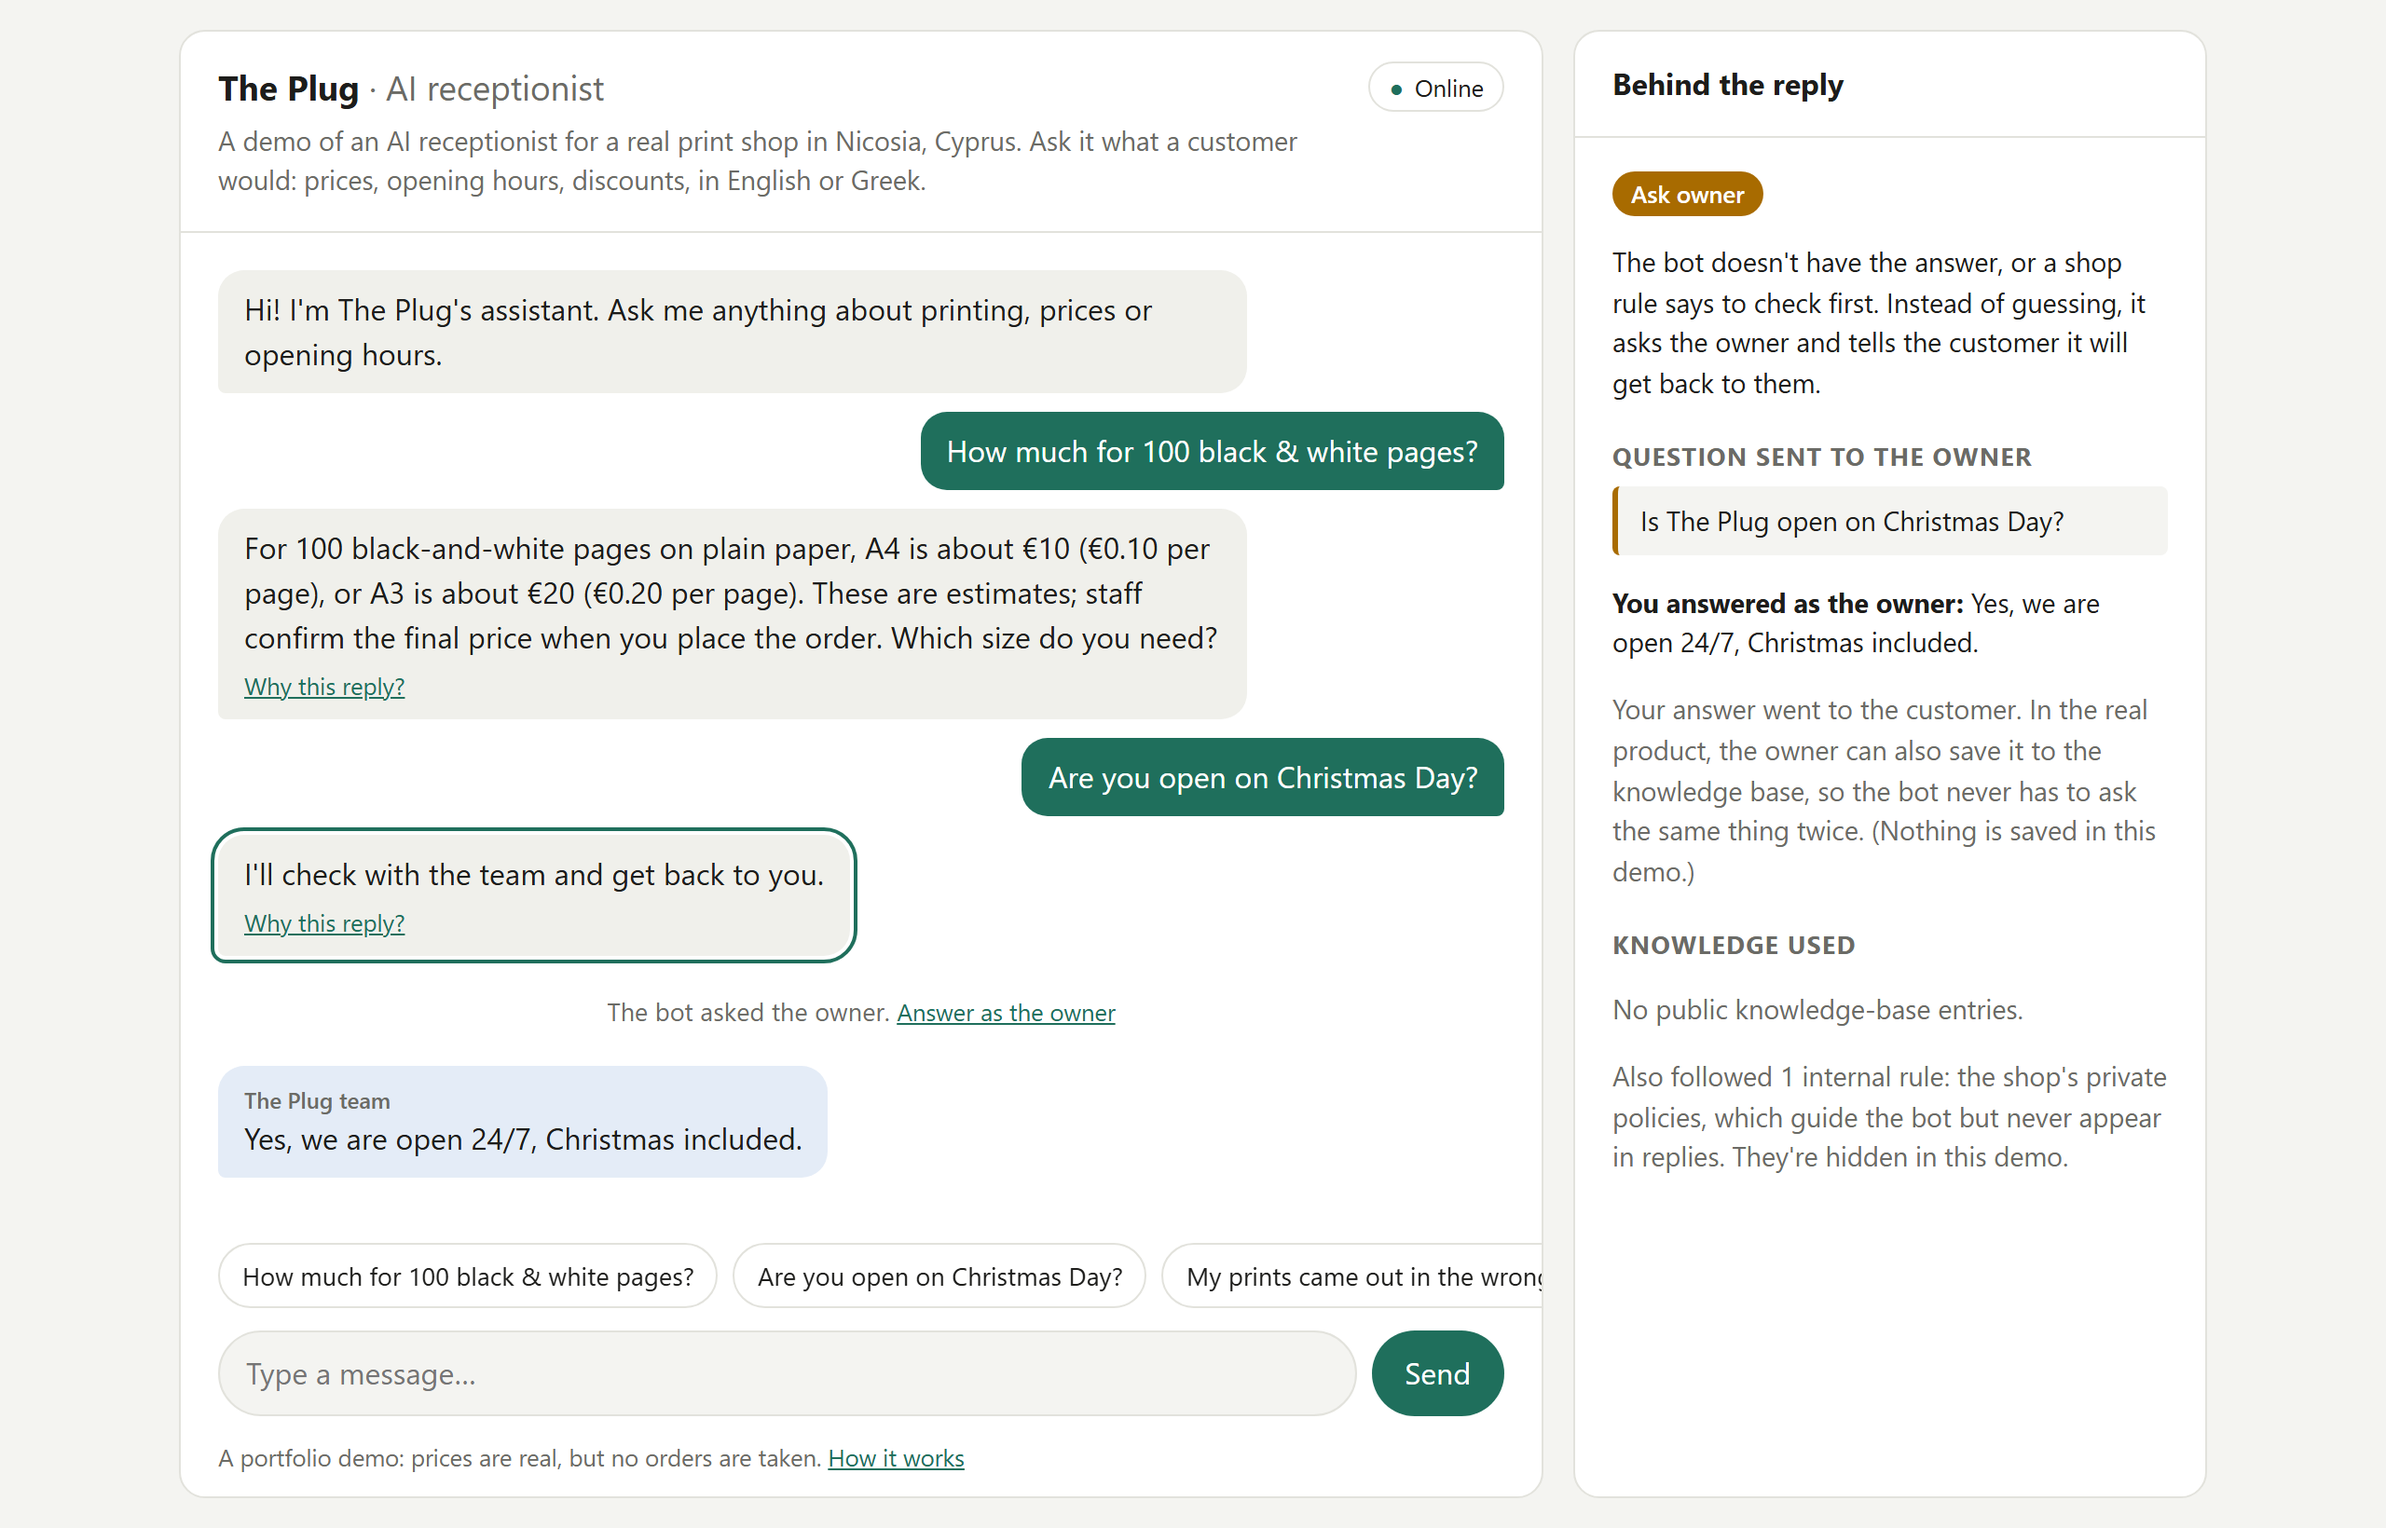
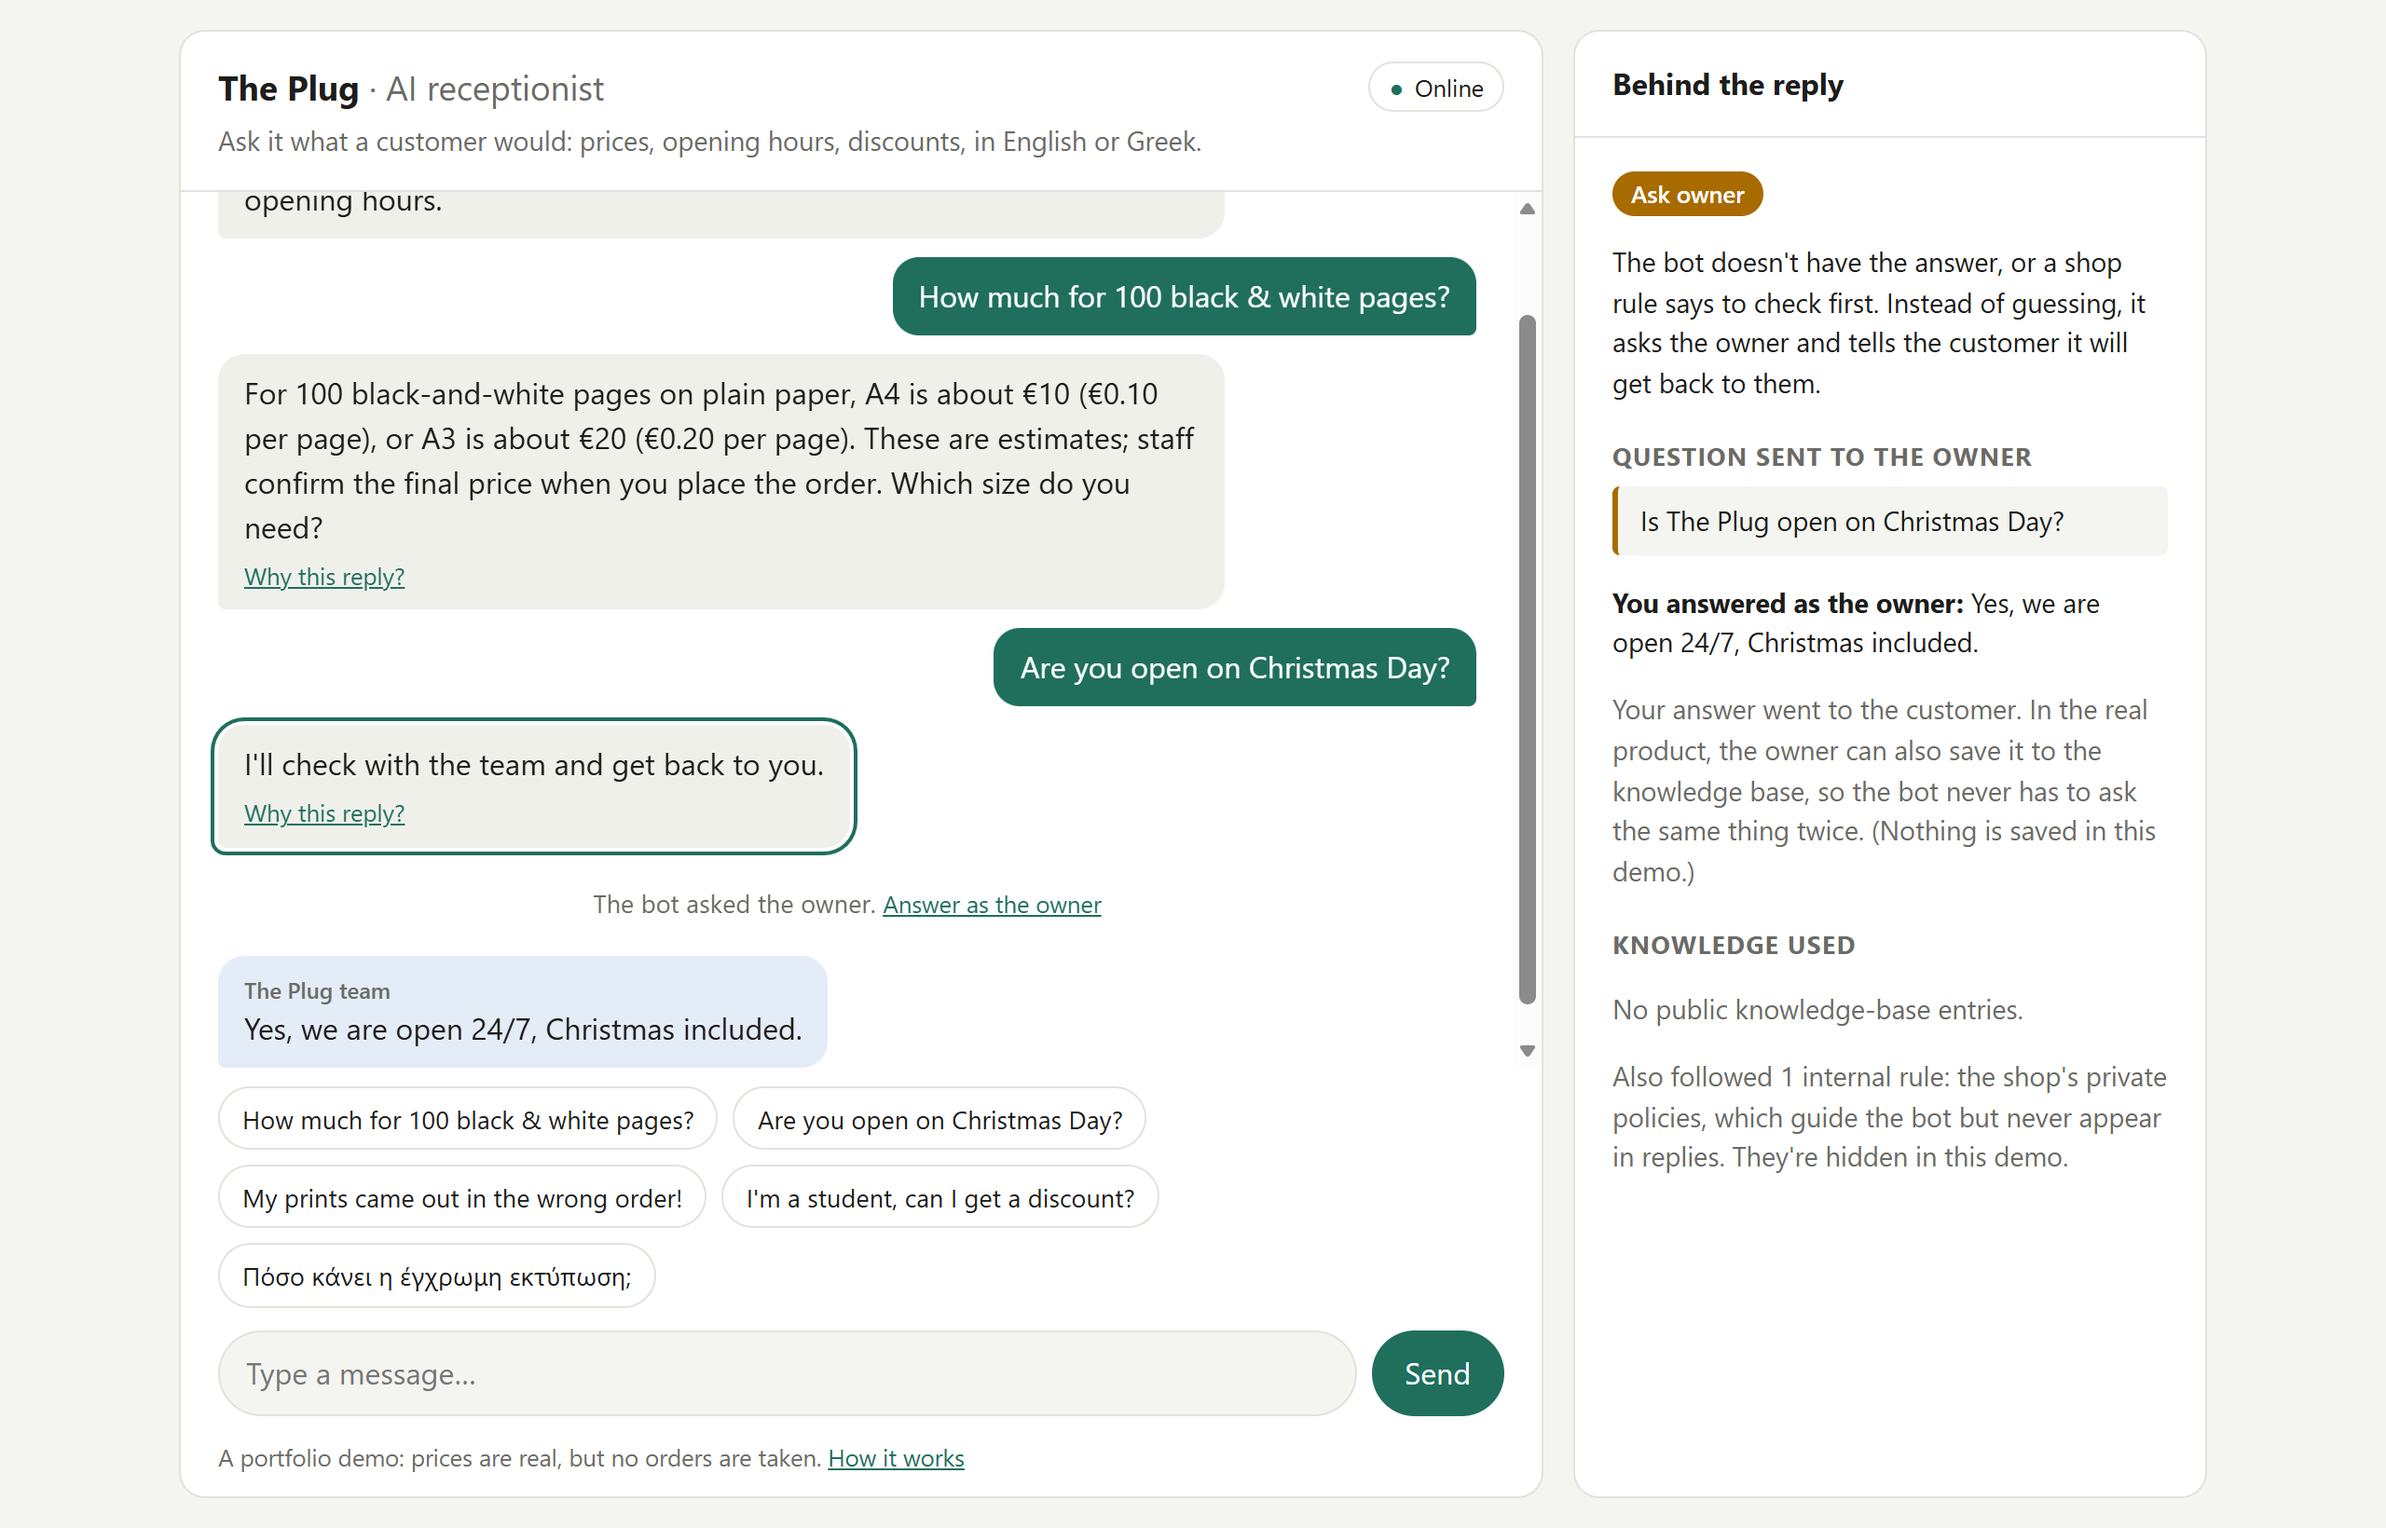
Demo page polish: shorter header, KB tables rendered as tables, chips wrap on desktop; new screenshot

diff --git a/app/static/app.js b/app/static/app.js
@@ -140,7 +140,7 @@ function renderPanel(entry) {
     for (const source of data.sources) {
       parts.push(el("details", { className: "source" },
         el("summary", { textContent: source.id }),
-        el("pre", { textContent: source.text })));
+        renderEntry(source.text)));
     }
   } else {
     parts.push(el("p", { className: "muted", textContent: "No public knowledge-base entries." }));
@@ -155,7 +155,48 @@ function renderPanel(entry) {
   panelBody.replaceChildren(...parts);
 }
 
-// "Play the owner": the visitor answers the bot's question, and the answer appears in the chat as a
+// Knowledge-base entries use a little markdown: paragraphs, "- " lists, tables and **bold**.
+// Turn it into elements line by line. Still only text nodes, so nothing in an entry runs as HTML.
+function lineKind(line) {
+  line = line.trim();
+  if (!line) return "blank";
+  if (line.startsWith("|")) return "table";
+  return /^[-*] /.test(line) ? "list" : "text";
+}
+
+function renderEntry(text) {
+  const box = el("div", { className: "entry" });
+  const lines = text.split("\n");
+  for (let i = 0; i < lines.length;) {
+    const kind = lineKind(lines[i]);
+    const group = [];
+    while (i < lines.length && lineKind(lines[i]) === kind) group.push(lines[i++].trim());
+    if (kind === "table") box.append(renderTable(group));
+    else if (kind === "list") box.append(el("ul", {}, ...group.map((l) => el("li", {}, ...inline(l.slice(2))))));
+    else if (kind === "text") box.append(el("p", {}, ...inline(group.join(" "))));
+  }
+  return box;
+}
+
+function renderTable(lines) {
+  let rows = lines
+    .filter((l) => !/^\|[\s:|-]+\|?$/.test(l)) // drop the |---|---| line under the header
+    .map((l) => l.replace(/^\||\|$/g, "").split("|").map((cell) => cell.trim()));
+  // Price ladders are one or two long rows (Pages | 1–10 | 11–20 | ...). Turned on their side
+  // they fit the narrow panel: one row per quantity.
+  if (rows.length <= 3 && rows[0].length > 4) rows = rows[0].map((_, c) => rows.map((row) => row[c] ?? ""));
+  const [head, ...body] = rows;
+  return el("div", { className: "table-wrap" }, el("table", {},
+    el("thead", {}, el("tr", {}, ...head.map((cell) => el("th", { textContent: cell })))),
+    el("tbody", {}, ...body.map((row) => el("tr", {}, ...row.map((cell) => el("td", { textContent: cell })))))));
+}
+
+// "**bold**" -> <strong>; backticks dropped. split() with a capture group puts the bold parts at odd indexes.
+function inline(text) {
+  return text.replaceAll("`", "").split(/\*\*(.+?)\*\*/).map((part, i) => (i % 2 ? el("strong", { textContent: part }) : part));
+}
+
+// "Play the owner":the visitor answers the bot's question, and the answer appears in the chat as a
 // message from the team. It joins the history as a staff turn, so the bot knows it from then on.
 function ownerSection(entry) {
   const section = el("section", { className: "owner" },

diff --git a/app/static/style.css b/app/static/style.css
@@ -208,6 +208,10 @@ h1 { font-size: 1.15rem; margin: 0 0 4px; }
   cursor: pointer;
 }
 .chip:hover { border-color: var(--accent); }
+/* With a mouse, a sideways-scrolling row is easy to miss: on wide screens the chips wrap instead. */
+@media (min-width: 901px) {
+  .suggestions { flex-wrap: wrap; }
+}
 
 /* Input row */
 .composer {
@@ -280,7 +284,13 @@ h3 { font-size: 0.85rem; margin: 18px 0 6px; text-transform: uppercase; letter-s
 
 .source { border: 1px solid var(--border); border-radius: 8px; padding: 6px 10px; margin-bottom: 6px; }
 .source summary { cursor: pointer; font-family: ui-monospace, Consolas, monospace; font-size: 0.85rem; }
-.source pre { white-space: pre-wrap; font-size: 0.8rem; margin: 8px 0 2px; font-family: inherit; }
+.entry { font-size: 0.85rem; margin: 8px 0 2px; }
+.entry p { margin: 0 0 6px; }
+.entry ul { margin: 0 0 6px; padding-left: 18px; }
+.table-wrap { overflow-x: auto; margin: 0 0 8px; }
+.entry table { border-collapse: collapse; font-size: 0.8rem; }
+.entry th, .entry td { padding: 3px 10px 3px 0; border-bottom: 1px solid var(--border); text-align: left; white-space: nowrap; }
+.entry th { color: var(--muted); font-weight: 600; white-space: normal; vertical-align: bottom; }
 
 .owner blockquote {
   margin: 0 0 10px;

diff --git a/app/static/index.html b/app/static/index.html
@@ -13,10 +13,7 @@
       <header class="chat-header">
         <div>
           <h1>The Plug <span class="muted">· AI receptionist</span></h1>
-          <p class="intro">
-            A demo of an AI receptionist for a real print shop in Nicosia, Cyprus. Ask it what a
-            customer would: prices, opening hours, discounts, in English or Greek.
-          </p>
+          <p class="intro">Ask it what a customer would: prices, opening hours, discounts, in English or Greek.</p>
         </div>
         <span id="status" class="status status-waiting" role="status">Connecting…</span>
       </header>
